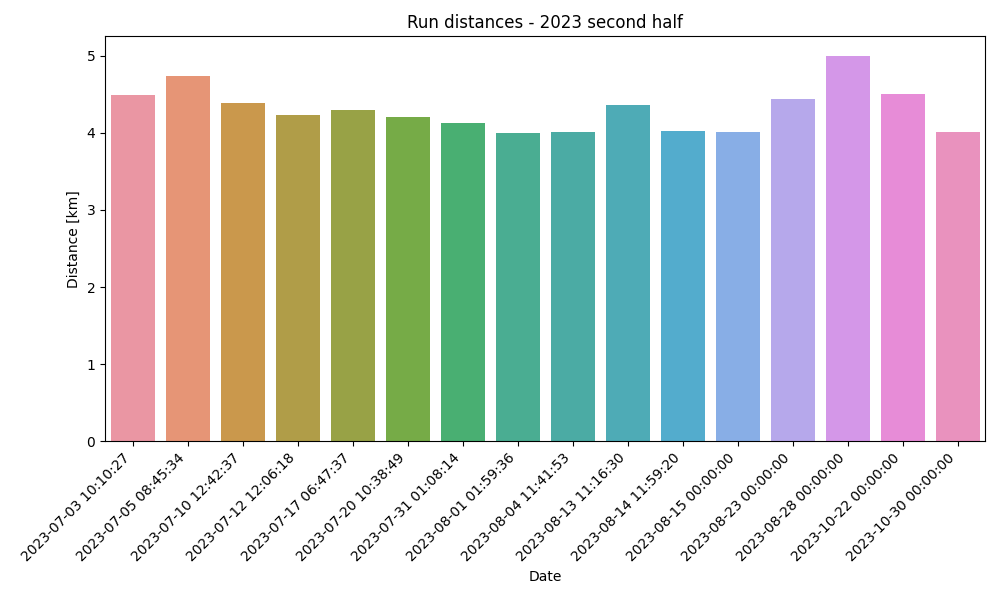
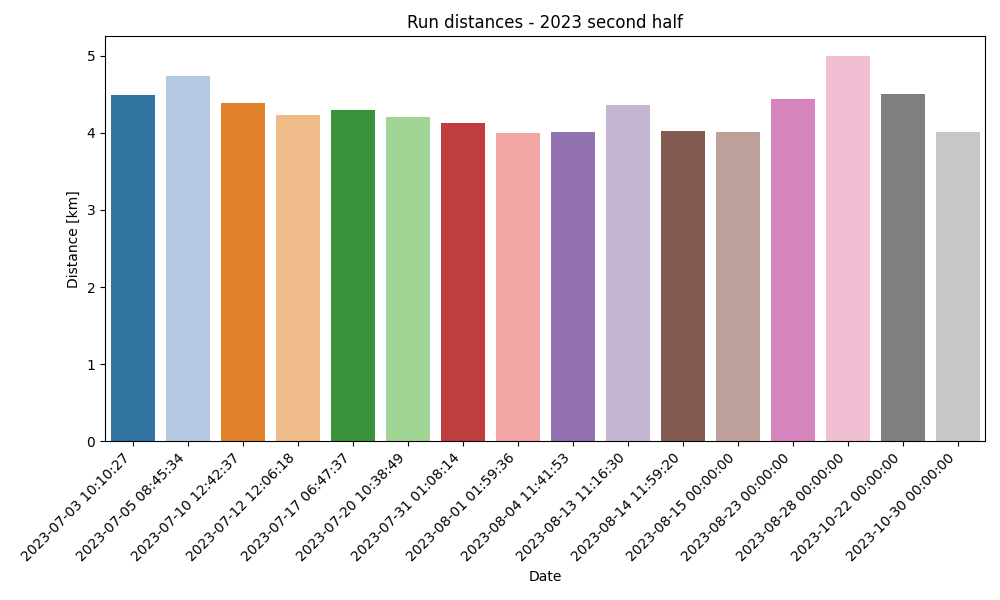
style: swap color palettes

diff --git a/src/plot.py b/src/plot.py
@@ -142,10 +142,14 @@ def main():
     half_years = [1, 2]
 
     color_palettes = [
+        # "coolwarm",
         "pastel",
         "dark",
-        "deep",
+        "tab20",
+        # "deep",
         # "colorblind",
+        # "plasma",
+        # "inferno",
         ]
 
     for idx, year in enumerate(years):

diff --git a/README.md b/README.md
@@ -34,20 +34,3 @@ running: `node src/calc.js`
   <img src="img/2021_first_half_run_distances_bar_plot.png" width="400"/>
   <img src="img/2021_second_half_run_distances_bar_plot.png" width="400"/>
 </p>
-
-
-
-<!-- Below: all runs uploaded to Strava
-![All Strava runs](img/all_runs.png) -->
-
-<!-- <p align="center">
-  <img src="img/2023_run_distances_bar_plot.png" width="400"/>
-</p>
-
-<p align="center">
-  <img src="img/2022_run_distances_bar_plot.png" width="400"/>
-</p>
-
-<p align="center">
-  <img src="img/2021_run_distances_bar_plot.png" width="400"/>
-</p> -->
